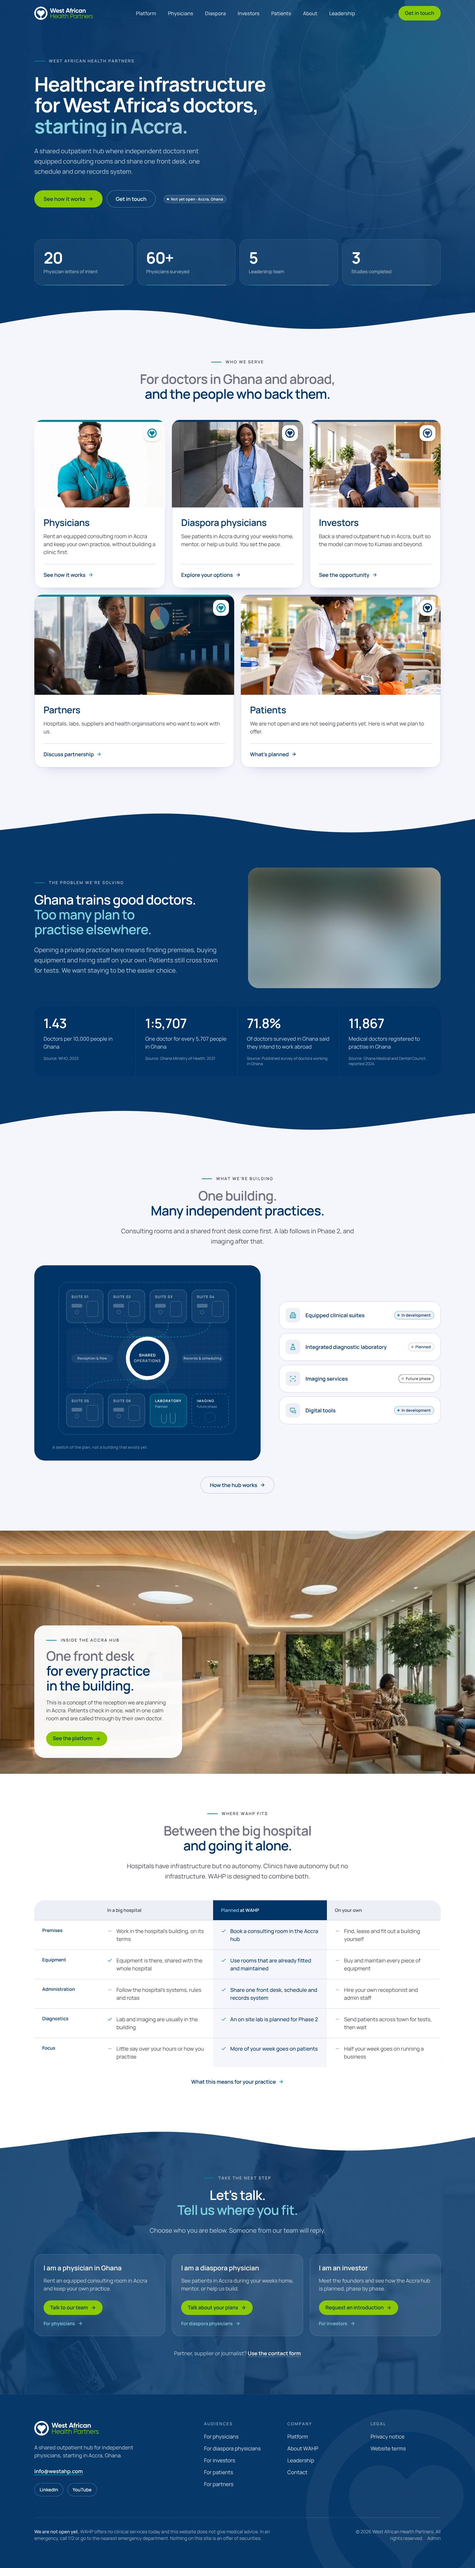
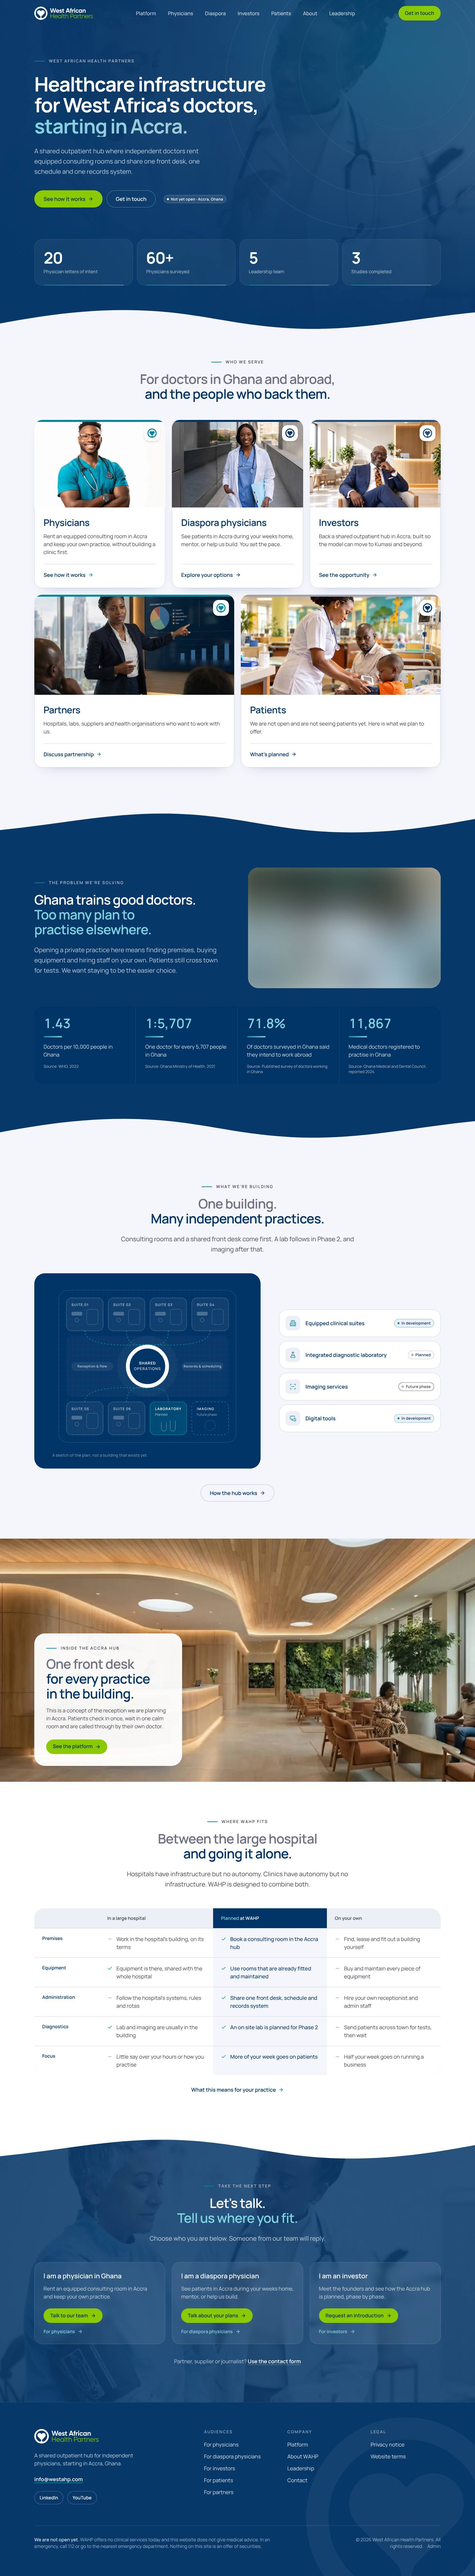
Animate the workforce figures; say "large hospital"
- Home workforce figures count up on view in light teal, each with a
  teal bar that draws in; sources in Steel.
- CountUp handles decimals, ratios and thousands separators, with unit
  tests.
- Fix the static preview's count up, which never matched because its
  regex lost its backslashes inside a template literal.
- Comparison: "big hospital" becomes "large hospital" (owner request).

Claude-Session: https://claude.ai/code/session_01Gg6TP4sXwQchVWe3LbXuH5

diff --git a/src/components/motion/count-up.tsx b/src/components/motion/count-up.tsx
@@ -3,20 +3,46 @@
 import { useEffect, useRef, useState } from "react";
 
 /**
- * Counts a number up softly when it first scrolls into view, e.g. "60+" from 0 to 60.
+ * Splits a figure into the number that animates and the text around it, keeping its decimals and thousands
+ * separators: "60+" → 60 + "+", "1.43" → 1.43, "71.8%" → 71.8 + "%", "1:5,707" → "1:" + 5,707, "11,867" → 11,867.
+ */
+export function parseFigure(value: string) {
+  const m = value.match(/^(.*?)(\d[\d,]*(?:\.\d+)?)(\D*)$/);
+  if (!m) return null;
+  const [, prefix, digits, suffix] = m;
+  return {
+    prefix,
+    suffix,
+    target: Number(digits.replace(/,/g, "")),
+    decimals: digits.includes(".") ? digits.split(".")[1].length : 0,
+    grouping: digits.includes(","),
+  };
+}
+
+type Figure = NonNullable<ReturnType<typeof parseFigure>>;
+
+export function formatFigure(f: Figure, n: number) {
+  const num = n.toLocaleString("en-US", {
+    minimumFractionDigits: f.decimals,
+    maximumFractionDigits: f.decimals,
+    useGrouping: f.grouping,
+  });
+  return `${f.prefix}${num}${f.suffix}`;
+}
+
+/**
+ * Counts a figure up softly when it first scrolls into view, e.g. "60+" from 0 to 60 or "71.8%" from 0.0%.
  * The final value is server-rendered (no-JS, SEO) and announced to screen readers; only the visual digits animate.
  */
 export function CountUp({ value, duration = 1800, delay = 0 }: { value: string; duration?: number; delay?: number }) {
-  const match = value.match(/^(\D*)(\d+)(.*)$/);
-  const target = match ? Number(match[2]) : null;
   const [shown, setShown] = useState(value);
   const ref = useRef<HTMLSpanElement>(null);
 
   useEffect(() => {
     const el = ref.current;
-    if (!el || target === null || !match) return;
+    const figure = parseFigure(value);
+    if (!el || !figure) return;
     if (window.matchMedia("(prefers-reduced-motion: reduce)").matches || !("IntersectionObserver" in window)) return;
-    const [, prefix, , suffix] = match;
     let frame = 0;
     let timer: ReturnType<typeof setTimeout> | undefined;
     const run = () => {
@@ -24,7 +50,7 @@ export function CountUp({ value, duration = 1800, delay = 0 }: { value: string; 
       const tick = (now: number) => {
         const t = Math.min(1, (now - start) / duration);
         const eased = 1 - Math.pow(1 - t, 4);
-        setShown(`${prefix}${Math.round(target * eased)}${suffix}`);
+        setShown(t < 1 ? formatFigure(figure, figure.target * eased) : value);
         if (t < 1) frame = requestAnimationFrame(tick);
       };
       frame = requestAnimationFrame(tick);
@@ -33,7 +59,7 @@ export function CountUp({ value, duration = 1800, delay = 0 }: { value: string; 
       ([entry]) => {
         if (!entry.isIntersecting) return;
         io.disconnect();
-        setShown(`${prefix}0${suffix}`);
+        setShown(formatFigure(figure, 0));
         timer = setTimeout(run, delay);
       },
       { threshold: 0.4 },
@@ -44,9 +70,7 @@ export function CountUp({ value, duration = 1800, delay = 0 }: { value: string; 
       cancelAnimationFrame(frame);
       if (timer) clearTimeout(timer);
     };
-    // value is static per instance
-    // eslint-disable-next-line react-hooks/exhaustive-deps
-  }, [value]);
+  }, [value, duration, delay]);
 
   return (
     <span ref={ref}>

diff --git a/src/components/sections/problem-stats.tsx b/src/components/sections/problem-stats.tsx
@@ -1,6 +1,8 @@
+import { CountUp } from "@/components/motion/count-up";
 import { approvedClaim } from "@/content/claims";
 
-/** Cited workforce statistics (from WAHP's own research pages). Each renders only if its claim is approved. */
+/** Cited workforce statistics (from WAHP's own research pages). Each renders only if its claim is approved.
+ *  Figures count up when they scroll into view. */
 const stats = [
   { claim: "stat-doctor-density", value: "1.43", label: "Doctors per 10,000 people in Ghana", source: "WHO, 2022" },
   {
@@ -36,9 +38,17 @@ export function ProblemStats({ dark = false }: { dark?: boolean }) {
           className={`reveal flex flex-col p-6 md:p-7 ${dark ? "bg-navy" : "bg-white"}`}
           style={{ transitionDelay: `${i * 60}ms` }}
         >
-          <dt className={`order-2 mt-3 ${dark ? "text-white/80" : "text-arsenic"}`}>{s.label}</dt>
-          <dd className={`order-1 text-headline font-semibold ${dark ? "text-white" : "text-navy"}`}>{s.value}</dd>
-          <dd className={`order-3 mt-4 text-xs ${dark ? "text-white/60" : "text-arsenic"}`}>Source: {s.source}</dd>
+          <dt className={`order-2 mt-4 ${dark ? "text-white/85" : "text-arsenic"}`}>{s.label}</dt>
+          {/* Brand accents: light teal figures on navy (navy on light), and a teal bar that draws in under each. */}
+          <dd className={`order-1 text-headline font-semibold ${dark ? "text-teal-300" : "text-navy"}`}>
+            <CountUp value={s.value} delay={150 + i * 140} />
+            <span
+              aria-hidden
+              className="stat-bar mt-4 block h-1 w-14 rounded-full bg-gradient-to-r from-teal to-teal-300"
+              style={{ transitionDelay: `${300 + i * 140}ms` }}
+            />
+          </dd>
+          <dd className={`order-3 mt-4 text-xs ${dark ? "text-steel" : "text-arsenic"}`}>Source: {s.source}</dd>
         </div>
       ))}
     </dl>

diff --git a/src/components/sections/comparison.tsx b/src/components/sections/comparison.tsx
@@ -2,9 +2,9 @@ import { Check, Minus } from "lucide-react";
 
 type OptionId = "hospital" | "wahp" | "own";
 
-/** Columns in reading order: WAHP sits between the big hospital and going it alone, as the heading says. */
+/** Columns in reading order: WAHP sits between the large hospital and going it alone, as the heading says. */
 const options: { id: OptionId; label: string; short: string }[] = [
-  { id: "hospital", label: "In a big hospital", short: "Big hospital" },
+  { id: "hospital", label: "In a large hospital", short: "Large hospital" },
   { id: "wahp", label: "Planned at WAHP", short: "WAHP" },
   { id: "own", label: "On your own", short: "On your own" },
 ];
@@ -55,7 +55,7 @@ const rows: { topic: string; cells: Record<OptionId, Cell> }[] = [
   },
 ];
 
-const caption = "Practising in a big hospital, at WAHP and on your own, compared";
+const caption = "Practising in a large hospital, at WAHP and on your own, compared";
 
 function Mark({ good, dark = false }: { good: boolean; dark?: boolean }) {
   return good ? (

diff --git a/tests/unit/count-up.test.ts b/tests/unit/count-up.test.ts
@@ -1,0 +1,26 @@
+import { describe, expect, it } from "vitest";
+import { formatFigure, parseFigure } from "../../src/components/motion/count-up";
+
+describe("count up figures", () => {
+  it.each([
+    ["20", "0"],
+    ["60+", "0+"],
+    ["1.43", "0.00"],
+    ["71.8%", "0.0%"],
+    ["1:5,707", "1:0"],
+    ["11,867", "0"],
+  ])("%s starts at %s and ends on itself", (value, start) => {
+    const f = parseFigure(value);
+    expect(f).not.toBeNull();
+    expect(formatFigure(f!, 0)).toBe(start);
+    expect(formatFigure(f!, f!.target)).toBe(value);
+  });
+
+  it("keeps thousands separators while counting", () => {
+    expect(formatFigure(parseFigure("1:5,707")!, 2853.5)).toBe("1:2,854");
+  });
+
+  it("ignores text without a number", () => {
+    expect(parseFigure("n/a")).toBeNull();
+  });
+});

diff --git a/src/app/(site)/page.tsx b/src/app/(site)/page.tsx
@@ -241,7 +241,7 @@ export default function HomePage() {
           id="compare-heading"
           align="center"
           eyebrow="Where WAHP fits"
-          lead="Between the big hospital"
+          lead="Between the large hospital"
           rest="and going it alone."
         >
           <p>

diff --git a/docs/IMPLEMENTATION_LOG.md b/docs/IMPLEMENTATION_LOG.md
@@ -235,3 +235,10 @@ A WordPress export of wahp.viewyourprojecthere.com arrived by WeTransfer (dated 
 - At the owner's request, the "Pause video" / "Play video" button is gone from all three background videos (Home hero, lobby band, closing audience band). `LoopVideo` keeps its playback rules: the hero starts after load and idle, the other two play only while in view, and nothing plays for reduced motion or data saver. Note: WCAG 2.2.2 asks for a way to pause moving content that runs longer than five seconds; the reduced motion setting is now the only way to stop it.
 - The captions under the four concept renders (three on `/platform`, one on `/physicians`) are removed, so no photo carries "Concept rendering" text. Their alt text still says so for screen readers, and `/terms#images` now reads: "Images of the inside of the Accra hub, and the lobby video on the home page, are concept renderings of planned environments."
 - The floor schematic diagram on Home keeps its caption ("A sketch of the plan, not a building that exists yet"), as it is a diagram rather than a photo.
+
+## 5 Nov 2026, animated workforce figures; "large hospital"
+
+- The four workforce figures on Home (1.43, 1:5,707, 71.8%, 11,867) now count up when they scroll into view, in a stagger, in light teal on navy, each with a teal bar that draws in underneath. Sources are in Steel. With reduced motion they show their final values.
+- `CountUp` now handles decimals, ratios and thousands separators (`parseFigure` / `formatFigure`, unit tested), so "1:5,707" counts as 1:0 → 1:5,707 and "71.8%" as 0.0% → 71.8%.
+- Fixed the static preview's count up: its pattern sat in a template literal, which dropped the backslashes, so the preview never animated any figure. The new code uses no backslashes.
+- The Home comparison says "large hospital" instead of "big hospital" (heading, phone switch, column title), at the owner's request.

diff --git a/docs/CONTENT_APPROVAL.md b/docs/CONTENT_APPROVAL.md
@@ -39,7 +39,7 @@ The decisions below block or shape public launch. The machine-readable register 
 | Mission and vision | One-Pager (Jul 2026) | Used on /about. Wording was reconstructed from PDF text, so **please check it word-for-word** |
 | Regulatory sentence ("full compliance with applicable Ghanaian … regulations") | Questionnaire #27 | Used on /about and the physician FAQ. No agencies are named |
 | "Hospitals have infrastructure but no autonomy. Clinics have autonomy but no infrastructure." | March blueprint / deck | Used on home ("…WAHP is designed to combine both."), as the intro to the three way comparison |
-| "In a big hospital" column of the Home comparison (premises, equipment, admin, diagnostics, focus) | Written 5 Nov 2026 from the line above and the older build's Hospital / WAHP / Private Clinic toggle | Qualitative, no figures. **Please check the wording** |
+| "In a large hospital" column of the Home comparison (renamed from "big hospital", 5 Nov 2026) (premises, equipment, admin, diagnostics, focus) | Written 5 Nov 2026 from the line above and the older build's Hospital / WAHP / Private Clinic toggle | Qualitative, no figures. **Please check the wording** |
 | "Accra is the starting point, not the destination." | March blueprint | Used on home |
 | "Stop managing. Start practising." / "Everything under one roof" | westahp.com themes (per brief) | Used as section headings. British spelling *practising* (en-GB). Confirm |
 | Flexible leases (hourly/daily/monthly) | Questionnaire #10 | Used in the physician FAQ as *planned*. No rates |
